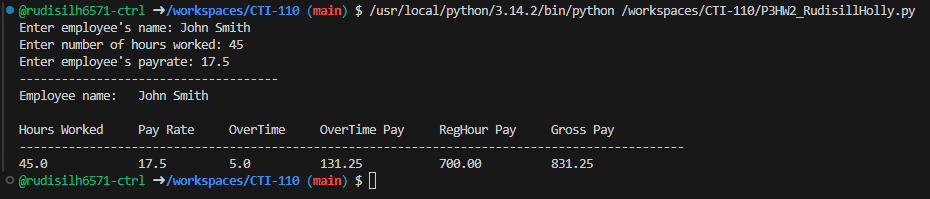
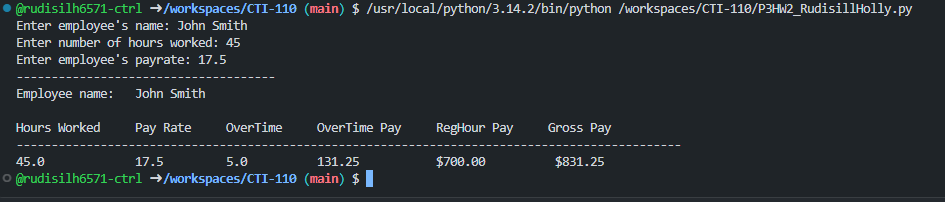
P4lab1 testing

diff --git a/P4LAB1_RudisillHolly.py b/P4LAB1_RudisillHolly.py
@@ -9,4 +9,11 @@ import turtle
 for number in range(7):
     print(number)
 
+num = float(input("Enter a decimal value between 1 and 20: "))
+
+while num < 1.0 or num > 20.0:
+    print("Number is not in range")
+    num = float(input("Try again: "))
+
+print(f"Yay, you finally gave a valid value, {num}")
     
